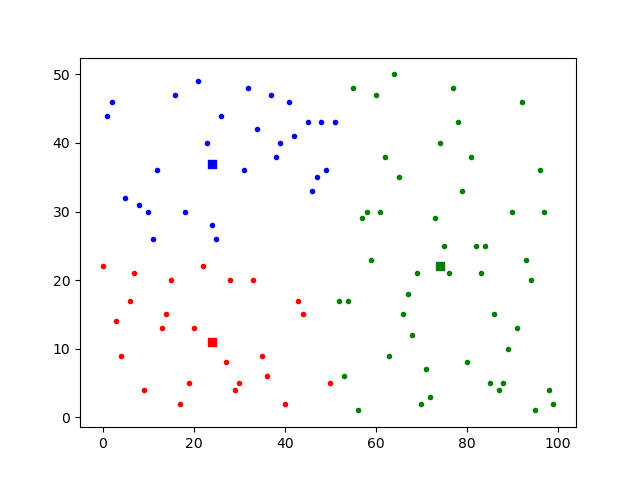
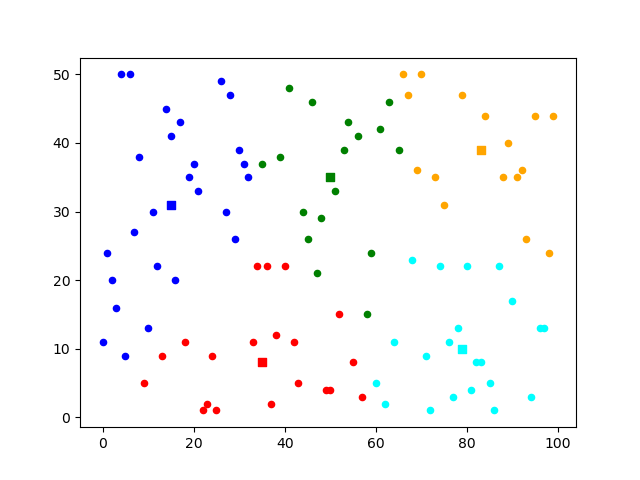
Modified README

diff --git a/kmeans.py b/kmeans.py
@@ -2,7 +2,7 @@ import random as rand
 import math
 import matplotlib.pyplot as plt
 
-colorList = ['red','blue','green','yellow','orange','purple']
+colorList = ['red','blue','green','orange','cyan','purple']
 
 # Getting random data points
 def getData():
@@ -13,8 +13,8 @@ def getData():
     return x,y
 
 # Plotting the points
-def plotData(x,y,clr='blue',mkr='.'):
-    plt.scatter(x,y,color=clr,marker=mkr)
+def plotData(x,y,clr='blue',mkr='o',sz=20):
+    plt.scatter(x,y,color=clr,marker=mkr,s=sz)
 
 def eucleadianDistance(x1,y1,x2,y2):
     return math.sqrt((x1-x2)**2 + (y1-y2)**2)
@@ -67,13 +67,13 @@ def kmeans(X,Y,k):
         for i in range(k):
             x,y = zip(*clusters[i])
             plotData(list(x),list(y),colorList[i])
-            plotData(centroids_x[i],centroids_y[i],colorList[i],'s')
+            plotData(centroids_x[i],centroids_y[i],colorList[i],'s',40)
         plt.show()
         centroids_x, centroids_y, clusters = findNewCentroids(clusters,k)
     
 if __name__ == '__main__':
 
     x,y = getData()
-    k = 3
+    k = 5
     kmeans(x,y,k)
 

diff --git a/README.md b/README.md
@@ -14,7 +14,7 @@
   <img width="400" src="images/first.png">
 </p>
 
-Three points are chosen randomly as centroids which are depicted as red dots. Based on the inital position of centroids, the points are separated into 3 clusters. The square shapes represent the centroids in the second image.
+Three points are chosen randomly as centroids which are depicted by the red dots. Based on the inital position of centroids, the points are separated into 3 clusters. The square shapes represent the centroids in the second image.
 
 <p align="center">
   <img src="images/second.png" width="300" /> 
@@ -23,18 +23,20 @@ Three points are chosen randomly as centroids which are depicted as red dots. Ba
   <img src="images/fifth.png" width="300" />
 </p>
 
-The result after 2-5 iteration are shown above.
+The result after 2-5 iteration are shown above. It can be seen that the centroids' position almost stabilises after 4th iteration.
 
 ### Run-2
 
 <p align="center">
-  <img width="300" src="images/random1.png">
-  <img width="300" src="images/first1.png">
+  <img width="400" src="images/random1.png">
+  <img width="400" src="images/first1.png">
 </p>
 
+The inital positions of the centroids are too close compared to the amount of spread in the data. By the end of the iterations, the spread is fully captured by the centroid positions.
+
 <p align="center">
-  <img src="images/second1.png" width="200" /> 
-  <img src="images/third1.png" width="200" />
-  <img src="images/fourth1.png" width="200" /> 
-  <img src="images/fifth1.png" width="200" />
+  <img src="images/second1.png" width="300" /> 
+  <img src="images/third1.png" width="300" />
+  <img src="images/fourth1.png" width="300" /> 
+  <img src="images/fifth1.png" width="300" />
 </p>
